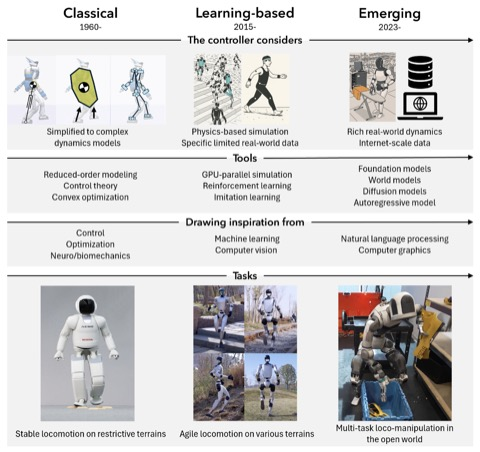
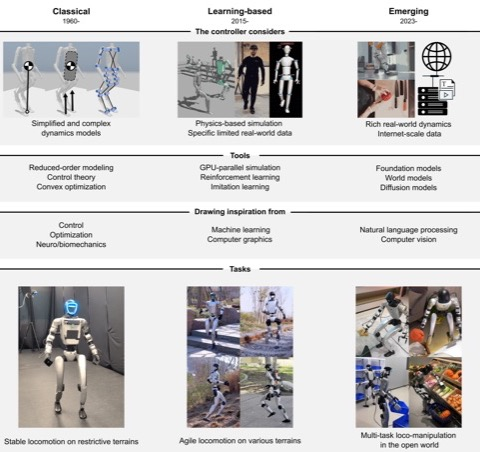
Science Robotics: publish links + final figures for locomotion survey
"Evolution of Humanoid Locomotion Control" is now out in Science Robotics
(Vol. 11, Issue 117, eaed3973, DOI 10.1126/scirobotics.aed3973).

- Publications/Research: link the paper title + Paper/DOI/Repo links, add the
  venue line, move the card to the top (most recent), rewrite the blurb.
- Swap the five draft carousel figures for the published Fig. 1-5 from the
  companion repo, with real alt text.
- Home: new [08/2026] news card (Fig. 1/4/5 carousel) + timeline dot;
  renumber the following cards and dots.
- Refresh the research preview tile with the published Fig. 1.

diff --git a/index.html b/index.html
@@ -214,6 +214,19 @@
     </div>
 
     <div class="news-card card card-hover" id="news-2">
+      <div class="news-text"><p><b>[08/2026]</b> Our review <a href="https://www.science.org/doi/10.1126/scirobotics.aed3973" target="_blank" rel="noopener"><b>“Evolution of Humanoid Locomotion Control”</b></a> was published in <a href="https://www.science.org/journal/scirobotics" target="_blank" rel="noopener"><b>Science Robotics</b></a> (Vol. 11, Issue 117, eaed3973) — tracing humanoid locomotion from classical model-based control through learning-based control to emerging foundation- and world-model approaches. Companion reading list on <a href="https://github.com/purdue-tracelab/Humanoid-Locomotion-Survey" target="_blank" rel="noopener">GitHub</a>.</p></div>
+      <div class="news-media" data-carousel>
+        <button class="c-btn prev" aria-label="Previous"><svg viewBox="0 0 24 24"><polyline points="15 6 9 12 15 18"/></svg></button>
+        <button class="c-btn next" aria-label="Next"><svg viewBox="0 0 24 24"><polyline points="9 6 15 12 9 18"/></svg></button>
+        <div class="carousel-track">
+          <div><img src="assets/images/news/science_robotics_2026/fig1.jpg" alt="Figure 1 — three eras of humanoid locomotion control: classical, learning-based, emerging"></div>
+          <div><img src="assets/images/news/science_robotics_2026/fig4.jpg" alt="Classical control versus reinforcement learning pipelines"></div>
+          <div><img src="assets/images/news/science_robotics_2026/fig5.jpg" alt="Emerging shifts in humanoid locomotion control"></div>
+        </div>
+      </div>
+    </div>
+
+    <div class="news-card card card-hover" id="news-3">
       <div class="news-text"><p><b>[05/2026]</b> Our paper <a href="https://arxiv.org/abs/2602.17537" target="_blank" rel="noopener"><b>IRIS</b></a> was accepted to <a href="https://www.ai-crv.ca/" target="_blank" rel="noopener">CRV 2026</a> (Conference on Robots and Vision) — I attended and gave an <b>oral presentation</b> at Simon Fraser University, Vancouver.</p></div>
       <div class="news-media" data-carousel>
         <button class="c-btn prev" aria-label="Previous"><svg viewBox="0 0 24 24"><polyline points="15 6 9 12 15 18"/></svg></button>
@@ -226,7 +239,7 @@
       </div>
     </div>
 
-    <div class="news-card card card-hover" id="news-3">
+    <div class="news-card card card-hover" id="news-4">
       <div class="news-text"><p><b>[11/2025]</b> Graduated with a Master of Engineering (MEng) in <a href="https://www.ece.utoronto.ca/" target="_blank" rel="noopener">Electrical &amp; Computer Engineering (ECE)</a> at the University of Toronto.</p></div>
       <div class="news-media" data-carousel>
         <button class="c-btn prev" aria-label="Previous"><svg viewBox="0 0 24 24"><polyline points="15 6 9 12 15 18"/></svg></button>
@@ -235,7 +248,7 @@
       </div>
     </div>
 
-    <div class="news-card card card-hover" id="news-4">
+    <div class="news-card card card-hover" id="news-5">
       <div class="news-text"><p><b>[10/2025]</b> Attended <a href="https://www.iros25.org/" target="_blank" rel="noopener">IROS 2025</a> in Hangzhou, China and presented <a href="https://ieeexplore.ieee.org/document/10916921" target="_blank" rel="noopener">“AeroHaptix”</a>.</p></div>
       <div class="news-media" data-carousel>
         <button class="c-btn prev" aria-label="Previous"><svg viewBox="0 0 24 24"><polyline points="15 6 9 12 15 18"/></svg></button>
@@ -248,7 +261,7 @@
       </div>
     </div>
 
-    <div class="news-card card card-hover" id="news-5">
+    <div class="news-card card card-hover" id="news-6">
       <div class="news-text"><p><b>[09/2025]</b> Started my Ph.D. in Mechanical Engineering at <b>New York University</b>, joining <a href="https://www.machinesinmotion.org/" target="_blank" rel="noopener">Prof. Ludovic Righetti's Machines in Motion Lab</a> — working with Ludovic and Katsuo.</p></div>
       <div class="news-media" data-carousel>
         <button class="c-btn prev" aria-label="Previous"><svg viewBox="0 0 24 24"><polyline points="15 6 9 12 15 18"/></svg></button>
@@ -261,7 +274,7 @@
       </div>
     </div>
 
-    <div class="news-card card card-hover" id="news-6">
+    <div class="news-card card card-hover" id="news-7">
       <div class="news-text"><p><b>[07/2025]</b> Our paper on certifiably correct <a href="https://arxiv.org/abs/2507.23045" target="_blank" rel="noopener">robot–world &amp; hand-eye calibration</a> was accepted to the International Journal of Robotics Research (IJRR).</p></div>
       <div class="news-media" data-carousel>
         <button class="c-btn prev" aria-label="Previous"><svg viewBox="0 0 24 24"><polyline points="15 6 9 12 15 18"/></svg></button>
@@ -270,7 +283,7 @@
       </div>
     </div>
 
-    <div class="news-card card card-hover" id="news-7">
+    <div class="news-card card card-hover" id="news-8">
       <div class="news-text"><p><b>[04/2025]</b> Attended <a href="https://chi2025.acm.org/" target="_blank" rel="noopener">CHI 2025</a> in Yokohama, Japan and presented <a href="https://dl.acm.org/doi/abs/10.1145/3706598.3714273" target="_blank" rel="noopener">“VibraForge”</a>.</p></div>
       <div class="news-media" data-carousel>
         <button class="c-btn prev" aria-label="Previous"><svg viewBox="0 0 24 24"><polyline points="15 6 9 12 15 18"/></svg></button>
@@ -282,7 +295,7 @@
       </div>
     </div>
 
-    <div class="news-card card card-hover" id="news-8">
+    <div class="news-card card card-hover" id="news-9">
       <div class="news-text"><p><b>[11/2024]</b> Presented at <a href="https://mscac.utoronto.ca/aria/" target="_blank" rel="noopener">ARIA 2024</a> in Toronto with our <a href="https://dl.acm.org/doi/abs/10.1145/3706598.3714273" target="_blank" rel="noopener">VibraForge</a> toolkits.</p></div>
       <div class="news-media" data-carousel>
         <button class="c-btn prev" aria-label="Previous"><svg viewBox="0 0 24 24"><polyline points="15 6 9 12 15 18"/></svg></button>
@@ -296,7 +309,7 @@
       </div>
     </div>
 
-    <div class="news-card card card-hover" id="news-9">
+    <div class="news-card card card-hover" id="news-10">
       <div class="news-text"><p><b>[07/2024]</b> Presented monocular depth estimation work at the <a href="https://robotics.utoronto.ca/toronto-robotics-conference-2024/" target="_blank" rel="noopener">Toronto Robotics Conference 2024</a>.</p></div>
       <div class="news-media" data-carousel>
         <button class="c-btn prev" aria-label="Previous"><svg viewBox="0 0 24 24"><polyline points="15 6 9 12 15 18"/></svg></button>
@@ -310,7 +323,7 @@
       </div>
     </div>
 
-    <div class="news-card card card-hover" id="news-10">
+    <div class="news-card card card-hover" id="news-11">
       <div class="news-text"><p><b>[11/2023]</b> Demonstrated <a href="https://dl.acm.org/doi/abs/10.1145/3706598.3714273" target="_blank" rel="noopener">“VibraForge”</a> at <a href="https://mscac.utoronto.ca/aria/" target="_blank" rel="noopener">ARIA 2023</a> in Toronto.</p></div>
       <div class="news-media" data-carousel>
         <button class="c-btn prev" aria-label="Previous"><svg viewBox="0 0 24 24"><polyline points="15 6 9 12 15 18"/></svg></button>
@@ -325,7 +338,7 @@
       </div>
     </div>
 
-    <div class="news-card card card-hover" id="news-11">
+    <div class="news-card card card-hover" id="news-12">
       <div class="news-text"><p><b>[06/2023]</b> Graduated from the University of Toronto with a Bachelor of Applied Science (BASc) in <a href="https://www.mie.utoronto.ca/" target="_blank" rel="noopener">Mechanical Engineering</a> — mechatronics &amp; robotics focus.</p></div>
       <div class="news-media" data-carousel>
         <button class="c-btn prev" aria-label="Previous"><svg viewBox="0 0 24 24"><polyline points="15 6 9 12 15 18"/></svg></button>
@@ -338,16 +351,17 @@
 
   <div id="news-timeline" class="news-timeline">
     <div class="timeline-item"><div class="news-dot active" data-target="1"></div><div class="timeline-label">09/26</div></div>
-    <div class="timeline-item"><div class="news-dot" data-target="2"></div><div class="timeline-label">05/26</div></div>
-    <div class="timeline-item"><div class="news-dot" data-target="3"></div><div class="timeline-label">11/25</div></div>
-    <div class="timeline-item"><div class="news-dot" data-target="4"></div><div class="timeline-label">10/25</div></div>
-    <div class="timeline-item"><div class="news-dot" data-target="5"></div><div class="timeline-label">09/25</div></div>
-    <div class="timeline-item"><div class="news-dot" data-target="6"></div><div class="timeline-label">07/25</div></div>
-    <div class="timeline-item"><div class="news-dot" data-target="7"></div><div class="timeline-label">04/25</div></div>
-    <div class="timeline-item"><div class="news-dot" data-target="8"></div><div class="timeline-label">11/24</div></div>
-    <div class="timeline-item"><div class="news-dot" data-target="9"></div><div class="timeline-label">07/24</div></div>
-    <div class="timeline-item"><div class="news-dot" data-target="10"></div><div class="timeline-label">11/23</div></div>
-    <div class="timeline-item"><div class="news-dot" data-target="11"></div><div class="timeline-label">06/23</div></div>
+    <div class="timeline-item"><div class="news-dot" data-target="2"></div><div class="timeline-label">08/26</div></div>
+    <div class="timeline-item"><div class="news-dot" data-target="3"></div><div class="timeline-label">05/26</div></div>
+    <div class="timeline-item"><div class="news-dot" data-target="4"></div><div class="timeline-label">11/25</div></div>
+    <div class="timeline-item"><div class="news-dot" data-target="5"></div><div class="timeline-label">10/25</div></div>
+    <div class="timeline-item"><div class="news-dot" data-target="6"></div><div class="timeline-label">09/25</div></div>
+    <div class="timeline-item"><div class="news-dot" data-target="7"></div><div class="timeline-label">07/25</div></div>
+    <div class="timeline-item"><div class="news-dot" data-target="8"></div><div class="timeline-label">04/25</div></div>
+    <div class="timeline-item"><div class="news-dot" data-target="9"></div><div class="timeline-label">11/24</div></div>
+    <div class="timeline-item"><div class="news-dot" data-target="10"></div><div class="timeline-label">07/24</div></div>
+    <div class="timeline-item"><div class="news-dot" data-target="11"></div><div class="timeline-label">11/23</div></div>
+    <div class="timeline-item"><div class="news-dot" data-target="12"></div><div class="timeline-label">06/23</div></div>
   </div>
 </section>
 

diff --git a/publications.html b/publications.html
@@ -56,6 +56,34 @@
   <h2 class="section-title">Publications</h2>
   <div class="pub-list">
 
+    <!-- Locomotion Survey — Science Robotics (carousel) -->
+    <div class="pub card card-hover">
+      <div class="pub-thumb">
+        <div class="pub-carousel" data-carousel>
+          <div class="carousel-track">
+            <div class="slide"><img src="assets/images/publications/sr_fig1.jpg" alt="Fig. 1 — Evolution of humanoid locomotion control across classical, learning-based, and emerging eras" decoding="async"></div>
+            <div class="slide"><img src="assets/images/publications/sr_fig2.jpg" alt="Fig. 2 — Modeling landscape, from physics-based models to data-driven world models" decoding="async"></div>
+            <div class="slide"><img src="assets/images/publications/sr_fig3.jpg" alt="Fig. 3 — Taxonomy of control methods and the deployment-time signal flow of each era" decoding="async"></div>
+            <div class="slide"><img src="assets/images/publications/sr_fig4.jpg" alt="Fig. 4 — Classical control versus reinforcement learning pipelines" decoding="async"></div>
+            <div class="slide"><img src="assets/images/publications/sr_fig5.jpg" alt="Fig. 5 — Emerging shifts: generative models, multimodality, multitask, loco-manipulation, test-time adaptation" decoding="async"></div>
+          </div>
+          <button class="c-btn prev" aria-label="Previous slide"><svg viewBox="0 0 24 24"><polyline points="15 6 9 12 15 18"/></svg></button>
+          <button class="c-btn next" aria-label="Next slide"><svg viewBox="0 0 24 24"><polyline points="9 6 15 12 9 18"/></svg></button>
+        </div>
+      </div>
+      <div class="pub-meta">
+        <a href="https://www.science.org/doi/10.1126/scirobotics.aed3973" target="_blank" rel="noopener"><span class="papertitle">Evolution of Humanoid Locomotion Control</span></a>
+        <span class="authors">Y. Gu, G. Shi, F. Shi, I. Chang, Y. Wang, <b>Q. Cheng</b>, Z. Olkin, I. Lopez-Sanchez, Y. Feng, J. Zhang, A. D. Ames, H. Su, and K. Sreenath</span>
+        <span class="venue"><em>Science Robotics</em>, 2026 &middot; Vol.&nbsp;11, Issue&nbsp;117, eaed3973</span>
+        <div class="links">
+          <a href="https://www.science.org/doi/10.1126/scirobotics.aed3973" target="_blank" rel="noopener">Paper</a>
+          <a href="https://doi.org/10.1126/scirobotics.aed3973" target="_blank" rel="noopener">DOI</a>
+          <a href="https://github.com/purdue-tracelab/Humanoid-Locomotion-Survey" target="_blank" rel="noopener">Repo</a>
+        </div>
+        <p class="pub-desc">A <em>Science Robotics</em> review tracing humanoid locomotion control through three eras &mdash; classical model-based control, learning-based control, and emerging foundation- and world-model approaches &mdash; and what each assumes about models, data, and the tasks a humanoid is expected to do.</p>
+      </div>
+    </div>
+
     <!-- IRIS CRV -->
     <div class="pub card card-hover">
       <div class="pub-thumb">
@@ -72,31 +100,6 @@
           <a href="https://thejerrycheng.github.io/cinema_robot.html">Website</a>
         </div>
         <p class="pub-desc">IRIS is a low-cost 3D-printed 6-DOF cinema robot that uses goal-conditioned transformer-based imitation learning to autonomously generate smooth, object-aware camera motion.</p>
-      </div>
-    </div>
-
-    <!-- Locomotion Survey (carousel) -->
-    <div class="pub card card-hover">
-      <div class="pub-thumb">
-        <div class="pub-carousel" data-carousel>
-          <div class="carousel-track">
-            <div class="slide"><img src="assets/images/publications/sr_modeling.jpg" alt="Locomotion Survey 1" decoding="async"></div>
-            <div class="slide"><img src="assets/images/publications/sr_control_flow.jpg" alt="Locomotion Survey 2" decoding="async"></div>
-            <div class="slide"><img src="assets/images/publications/sr_categories.jpg" alt="Locomotion Survey 3" decoding="async"></div>
-            <div class="slide"><img src="assets/images/publications/sr_first_figure.jpg" alt="Locomotion Survey 4" decoding="async"></div>
-            <div class="slide"><img src="assets/images/publications/sr_shift.jpg" alt="Locomotion Survey 5" decoding="async"></div>
-          </div>
-          <button class="c-btn prev" aria-label="Previous slide"><svg viewBox="0 0 24 24"><polyline points="15 6 9 12 15 18"/></svg></button>
-          <button class="c-btn next" aria-label="Next slide"><svg viewBox="0 0 24 24"><polyline points="9 6 15 12 9 18"/></svg></button>
-        </div>
-      </div>
-      <div class="pub-meta">
-        <span class="papertitle">Evolution of Humanoid Locomotion Control</span>
-        <span class="authors">Y. Gu, G. Shi, F. Shi, I. Chang, Y. Wang, <b>Q. Cheng</b>, Z. Olkin, I. Lopez-Sanchez, Y. Feng, J. Zhang, A. D. Ames, H. Su, and K. Sreenath</span>
-        <div class="links">
-          <a href="https://github.com/purdue-tracelab/Humanoid-Locomotion-Survey" target="_blank" rel="noopener">Website</a>
-        </div>
-        <p class="pub-desc">A comprehensive review and perspective of humanoid locomotion control methods, spanning classical to learning-based approaches to emerging trends.</p>
       </div>
     </div>
 

diff --git a/research.html b/research.html
@@ -62,6 +62,34 @@
   <h2 class="section-title">Research</h2>
   <div class="pub-list">
 
+    <!-- Locomotion Survey — Science Robotics (carousel) -->
+    <div class="pub card card-hover">
+      <div class="pub-thumb">
+        <div class="pub-carousel" data-carousel>
+          <div class="carousel-track">
+            <div class="slide"><img src="assets/images/publications/sr_fig1.jpg" alt="Fig. 1 — Evolution of humanoid locomotion control across classical, learning-based, and emerging eras" decoding="async"></div>
+            <div class="slide"><img src="assets/images/publications/sr_fig2.jpg" alt="Fig. 2 — Modeling landscape, from physics-based models to data-driven world models" decoding="async"></div>
+            <div class="slide"><img src="assets/images/publications/sr_fig3.jpg" alt="Fig. 3 — Taxonomy of control methods and the deployment-time signal flow of each era" decoding="async"></div>
+            <div class="slide"><img src="assets/images/publications/sr_fig4.jpg" alt="Fig. 4 — Classical control versus reinforcement learning pipelines" decoding="async"></div>
+            <div class="slide"><img src="assets/images/publications/sr_fig5.jpg" alt="Fig. 5 — Emerging shifts: generative models, multimodality, multitask, loco-manipulation, test-time adaptation" decoding="async"></div>
+          </div>
+          <button class="c-btn prev" aria-label="Previous slide"><svg viewBox="0 0 24 24"><polyline points="15 6 9 12 15 18"/></svg></button>
+          <button class="c-btn next" aria-label="Next slide"><svg viewBox="0 0 24 24"><polyline points="9 6 15 12 9 18"/></svg></button>
+        </div>
+      </div>
+      <div class="pub-meta">
+        <a href="https://www.science.org/doi/10.1126/scirobotics.aed3973" target="_blank" rel="noopener"><span class="papertitle">Evolution of Humanoid Locomotion Control</span></a>
+        <span class="authors">Y. Gu, G. Shi, F. Shi, I. Chang, Y. Wang, <b>Q. Cheng</b>, Z. Olkin, I. Lopez-Sanchez, Y. Feng, J. Zhang, A. D. Ames, H. Su, and K. Sreenath</span>
+        <span class="venue"><em>Science Robotics</em>, 2026 &middot; Vol.&nbsp;11, Issue&nbsp;117, eaed3973</span>
+        <div class="links">
+          <a href="https://www.science.org/doi/10.1126/scirobotics.aed3973" target="_blank" rel="noopener">Paper</a>
+          <a href="https://doi.org/10.1126/scirobotics.aed3973" target="_blank" rel="noopener">DOI</a>
+          <a href="https://github.com/purdue-tracelab/Humanoid-Locomotion-Survey" target="_blank" rel="noopener">Repo</a>
+        </div>
+        <p class="pub-desc">A <em>Science Robotics</em> review tracing humanoid locomotion control through three eras &mdash; classical model-based control, learning-based control, and emerging foundation- and world-model approaches &mdash; and what each assumes about models, data, and the tasks a humanoid is expected to do.</p>
+      </div>
+    </div>
+
     <!-- IRIS CRV -->
     <div class="pub card card-hover">
       <div class="pub-thumb">
@@ -78,31 +106,6 @@
           <a href="https://thejerrycheng.github.io/cinema_robot.html">Website</a>
         </div>
         <p class="pub-desc">IRIS is a low-cost 3D-printed 6-DOF cinema robot that uses goal-conditioned transformer-based imitation learning to autonomously generate smooth, object-aware camera motion.</p>
-      </div>
-    </div>
-
-    <!-- Locomotion Survey (carousel) -->
-    <div class="pub card card-hover">
-      <div class="pub-thumb">
-        <div class="pub-carousel" data-carousel>
-          <div class="carousel-track">
-            <div class="slide"><img src="assets/images/publications/sr_modeling.jpg" alt="Locomotion Survey 1" decoding="async"></div>
-            <div class="slide"><img src="assets/images/publications/sr_control_flow.jpg" alt="Locomotion Survey 2" decoding="async"></div>
-            <div class="slide"><img src="assets/images/publications/sr_categories.jpg" alt="Locomotion Survey 3" decoding="async"></div>
-            <div class="slide"><img src="assets/images/publications/sr_first_figure.jpg" alt="Locomotion Survey 4" decoding="async"></div>
-            <div class="slide"><img src="assets/images/publications/sr_shift.jpg" alt="Locomotion Survey 5" decoding="async"></div>
-          </div>
-          <button class="c-btn prev" aria-label="Previous slide"><svg viewBox="0 0 24 24"><polyline points="15 6 9 12 15 18"/></svg></button>
-          <button class="c-btn next" aria-label="Next slide"><svg viewBox="0 0 24 24"><polyline points="9 6 15 12 9 18"/></svg></button>
-        </div>
-      </div>
-      <div class="pub-meta">
-        <span class="papertitle">Evolution of Humanoid Locomotion Control</span>
-        <span class="authors">Y. Gu, G. Shi, F. Shi, I. Chang, Y. Wang, <b>Q. Cheng</b>, Z. Olkin, I. Lopez-Sanchez, Y. Feng, J. Zhang, A. D. Ames, H. Su, and K. Sreenath</span>
-        <div class="links">
-          <a href="https://github.com/purdue-tracelab/Humanoid-Locomotion-Survey" target="_blank" rel="noopener">Website</a>
-        </div>
-        <p class="pub-desc">A comprehensive review and perspective of humanoid locomotion control methods, spanning classical to learning-based approaches to emerging trends.</p>
       </div>
     </div>
 
